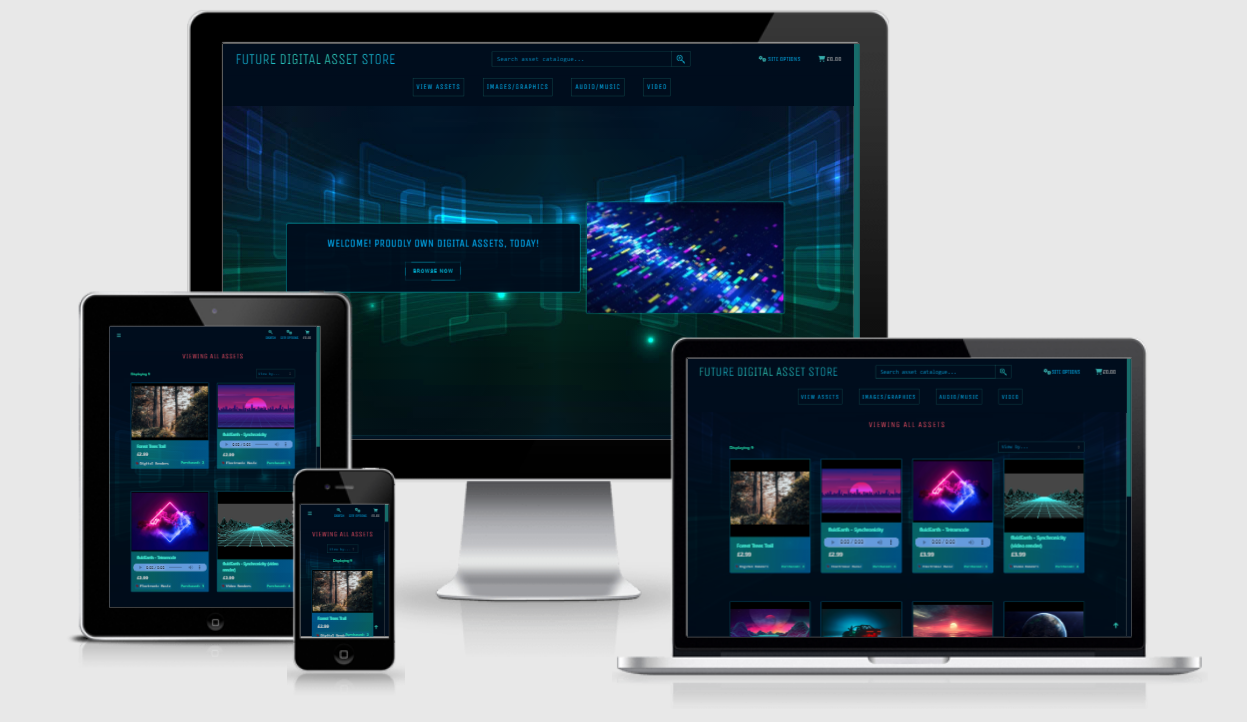
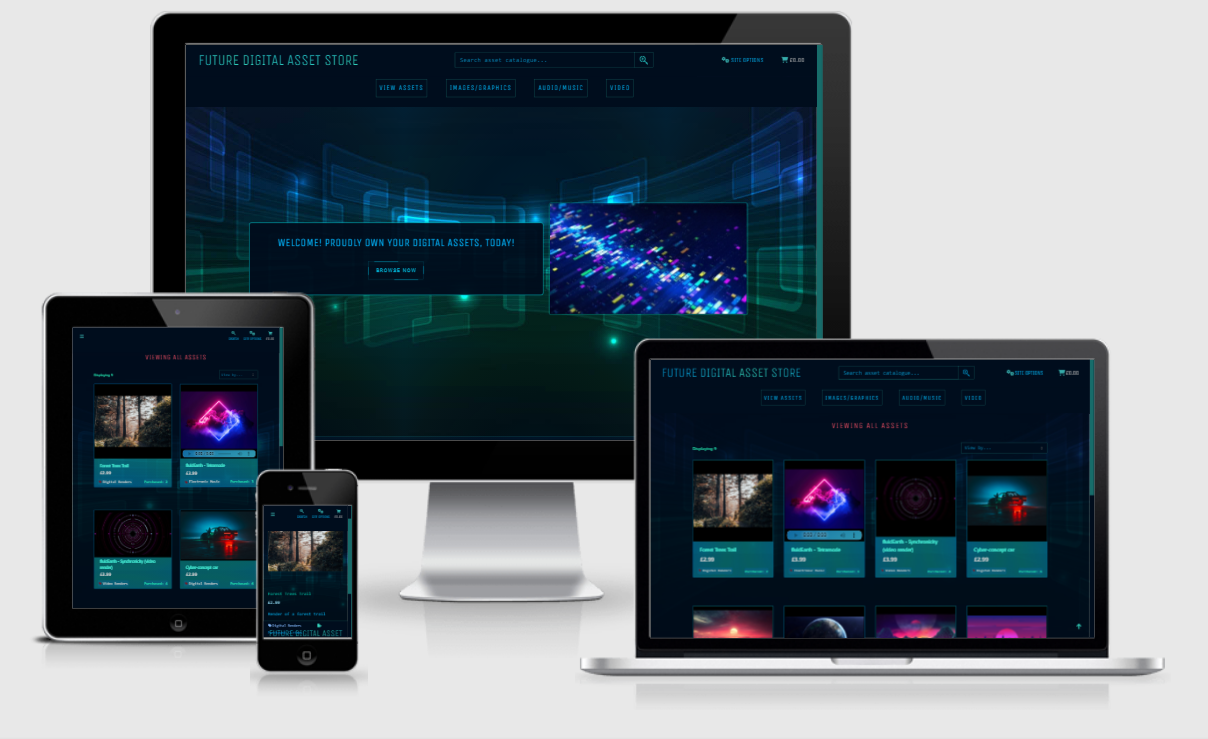
Adjust CSS

diff --git a/assets/templates/assets/assets.html b/assets/templates/assets/assets.html
@@ -32,7 +32,7 @@
             </div>
         </div>
         <div class="row">
-            <div class="col-10 offset-1">
+            <div class="col-12 col-sm-10 offset-1">
                 <div class="row mt-1 mb-2">
                     <div class="col-12 col-md-6 my-auto order-md-last d-flex justify-content-center justify-content-md-end">
                         <div class="w-50 outline-none">

diff --git a/assets/templates/assets/asset_detail.html b/assets/templates/assets/asset_detail.html
@@ -16,7 +16,7 @@
 {% block main_content %}
 <div class="hero-image"></div>
 <div class="overlay"></div>
-<div class="container-fluid">
+<div class="container-fluid h-100">
     <div class="row">
         <div class="col-12 col-md-6 col-lg-4 offset-lg-3">
             <div class="my-5">

diff --git a/static/css/base.css b/static/css/base.css
@@ -720,6 +720,14 @@ select {
     }
 }
 
+/* Styles below 576px */
+
+@media (max-width: 576px) {
+    .offset-1 {
+        margin-left: 0% !important;
+    }
+}
+
 /* Styles below 530px */
 
 @media (max-width: 530px) {
